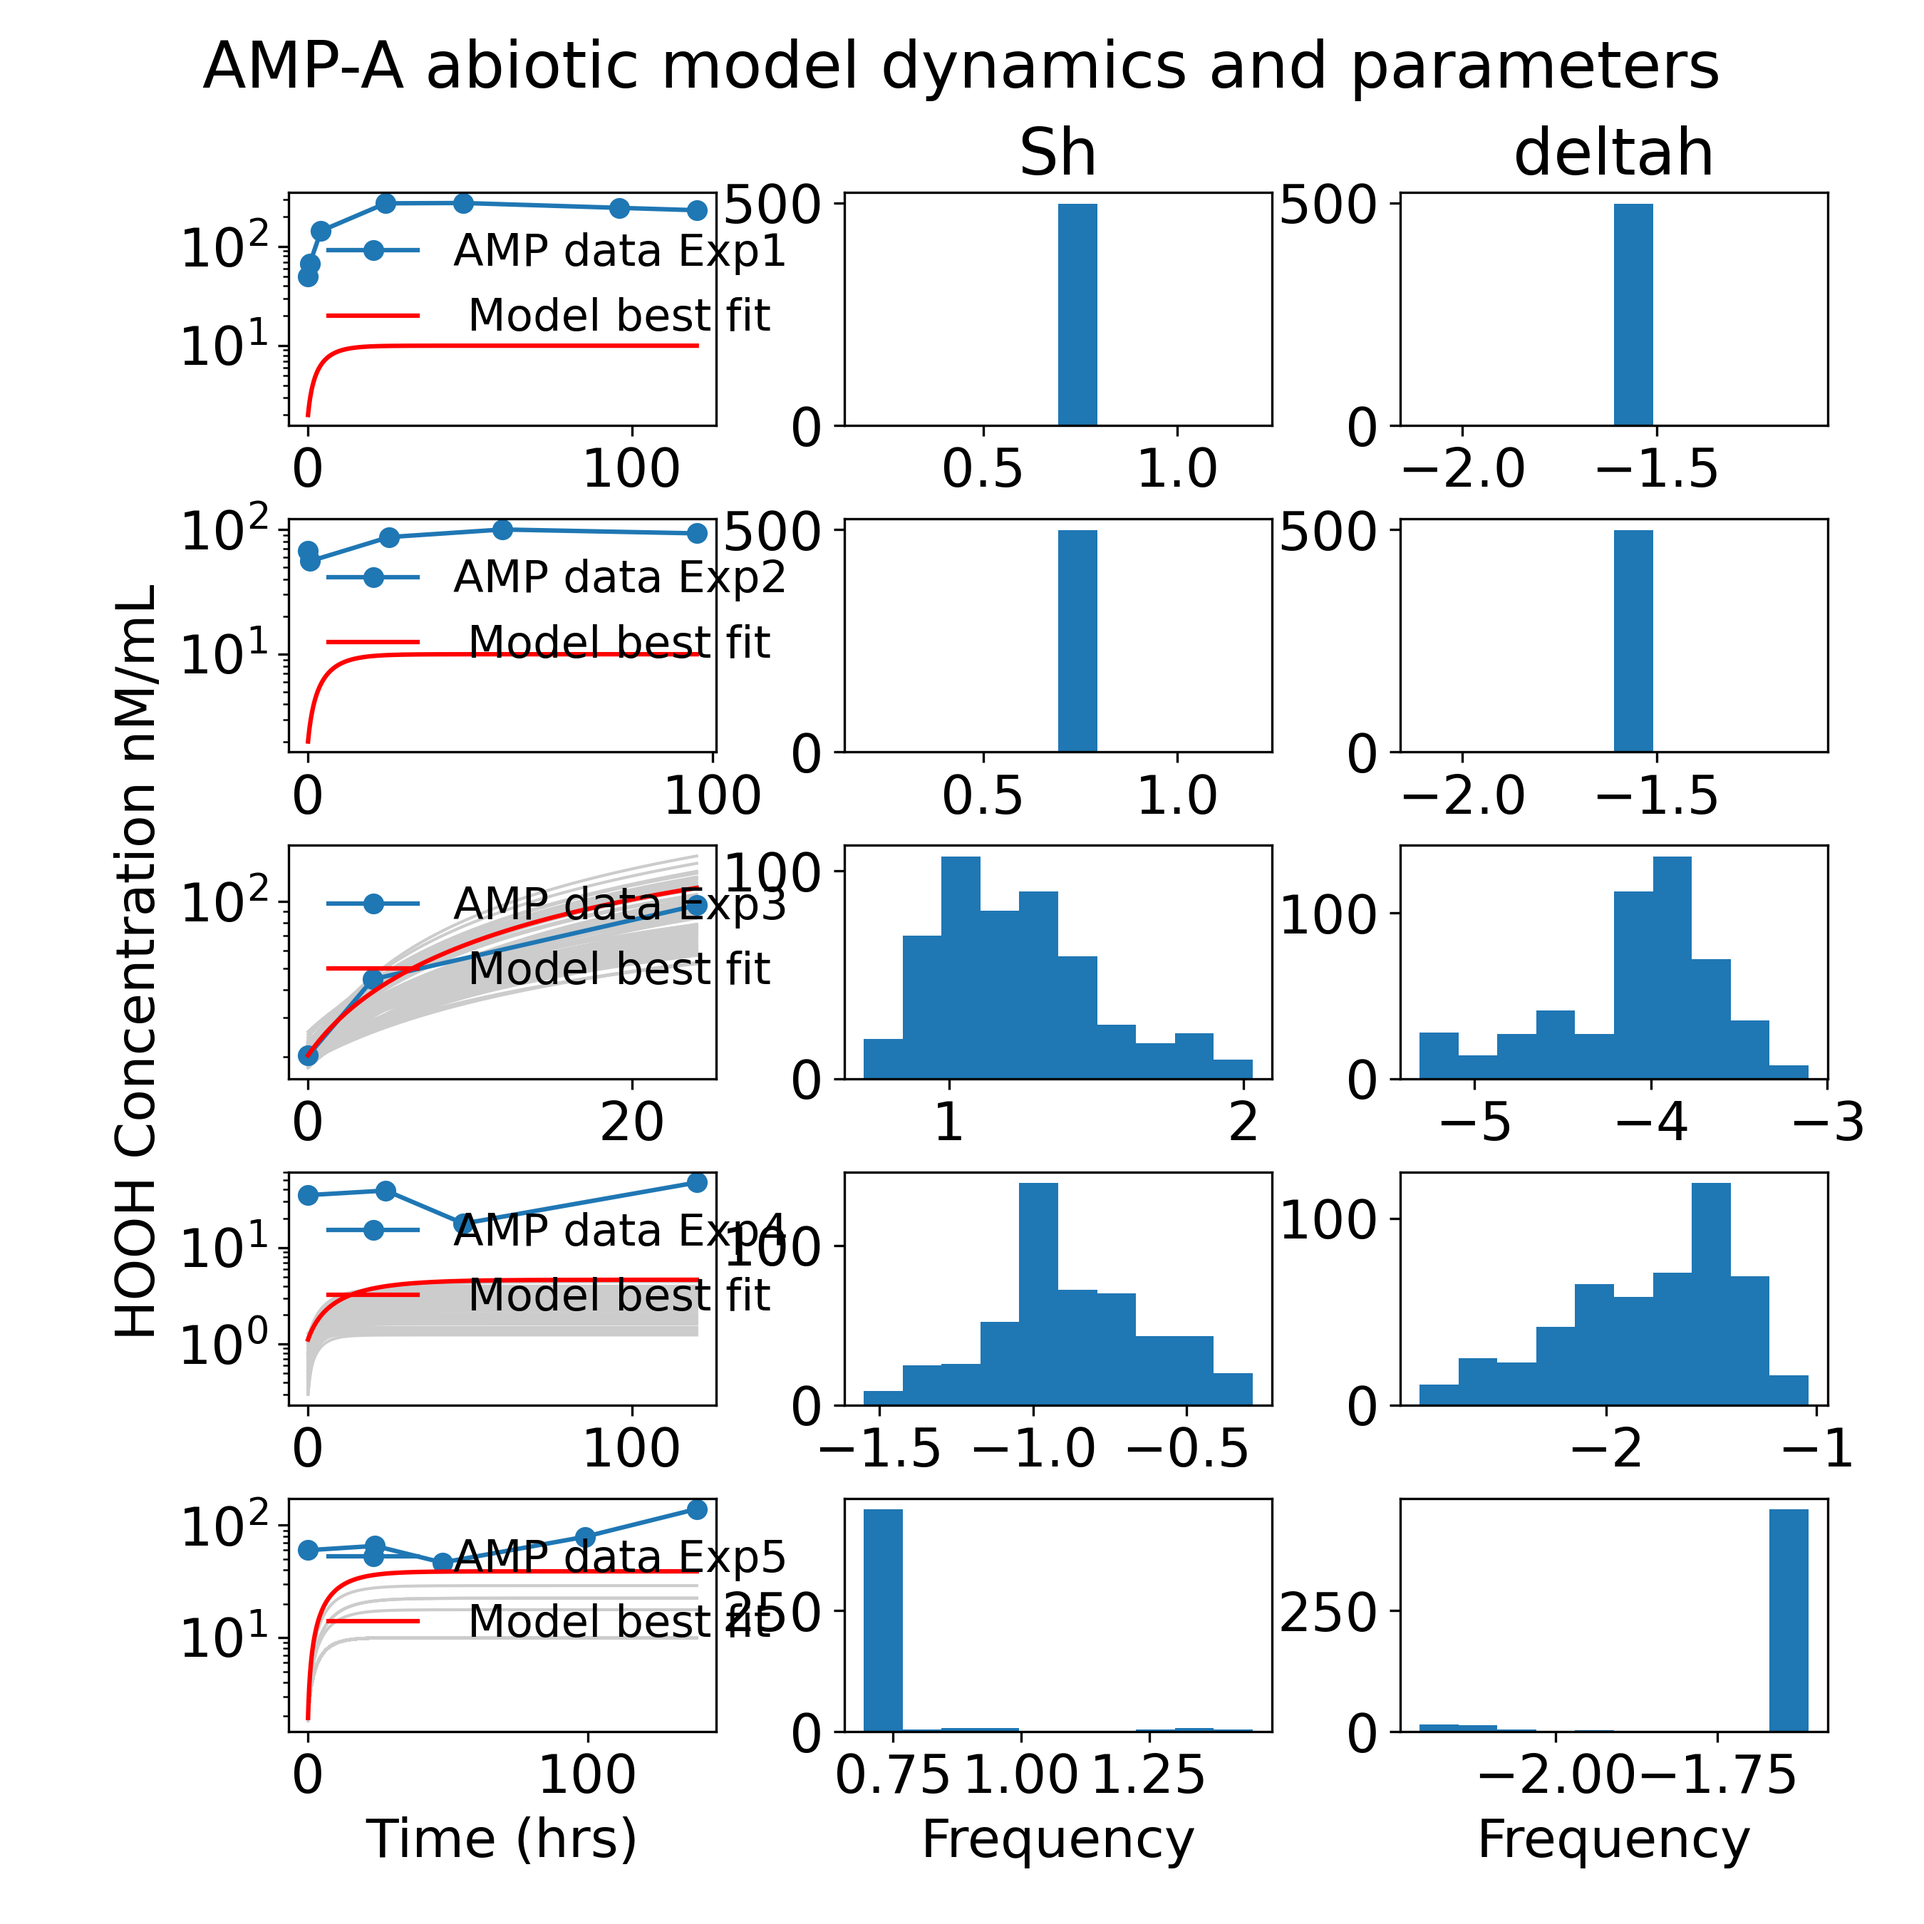
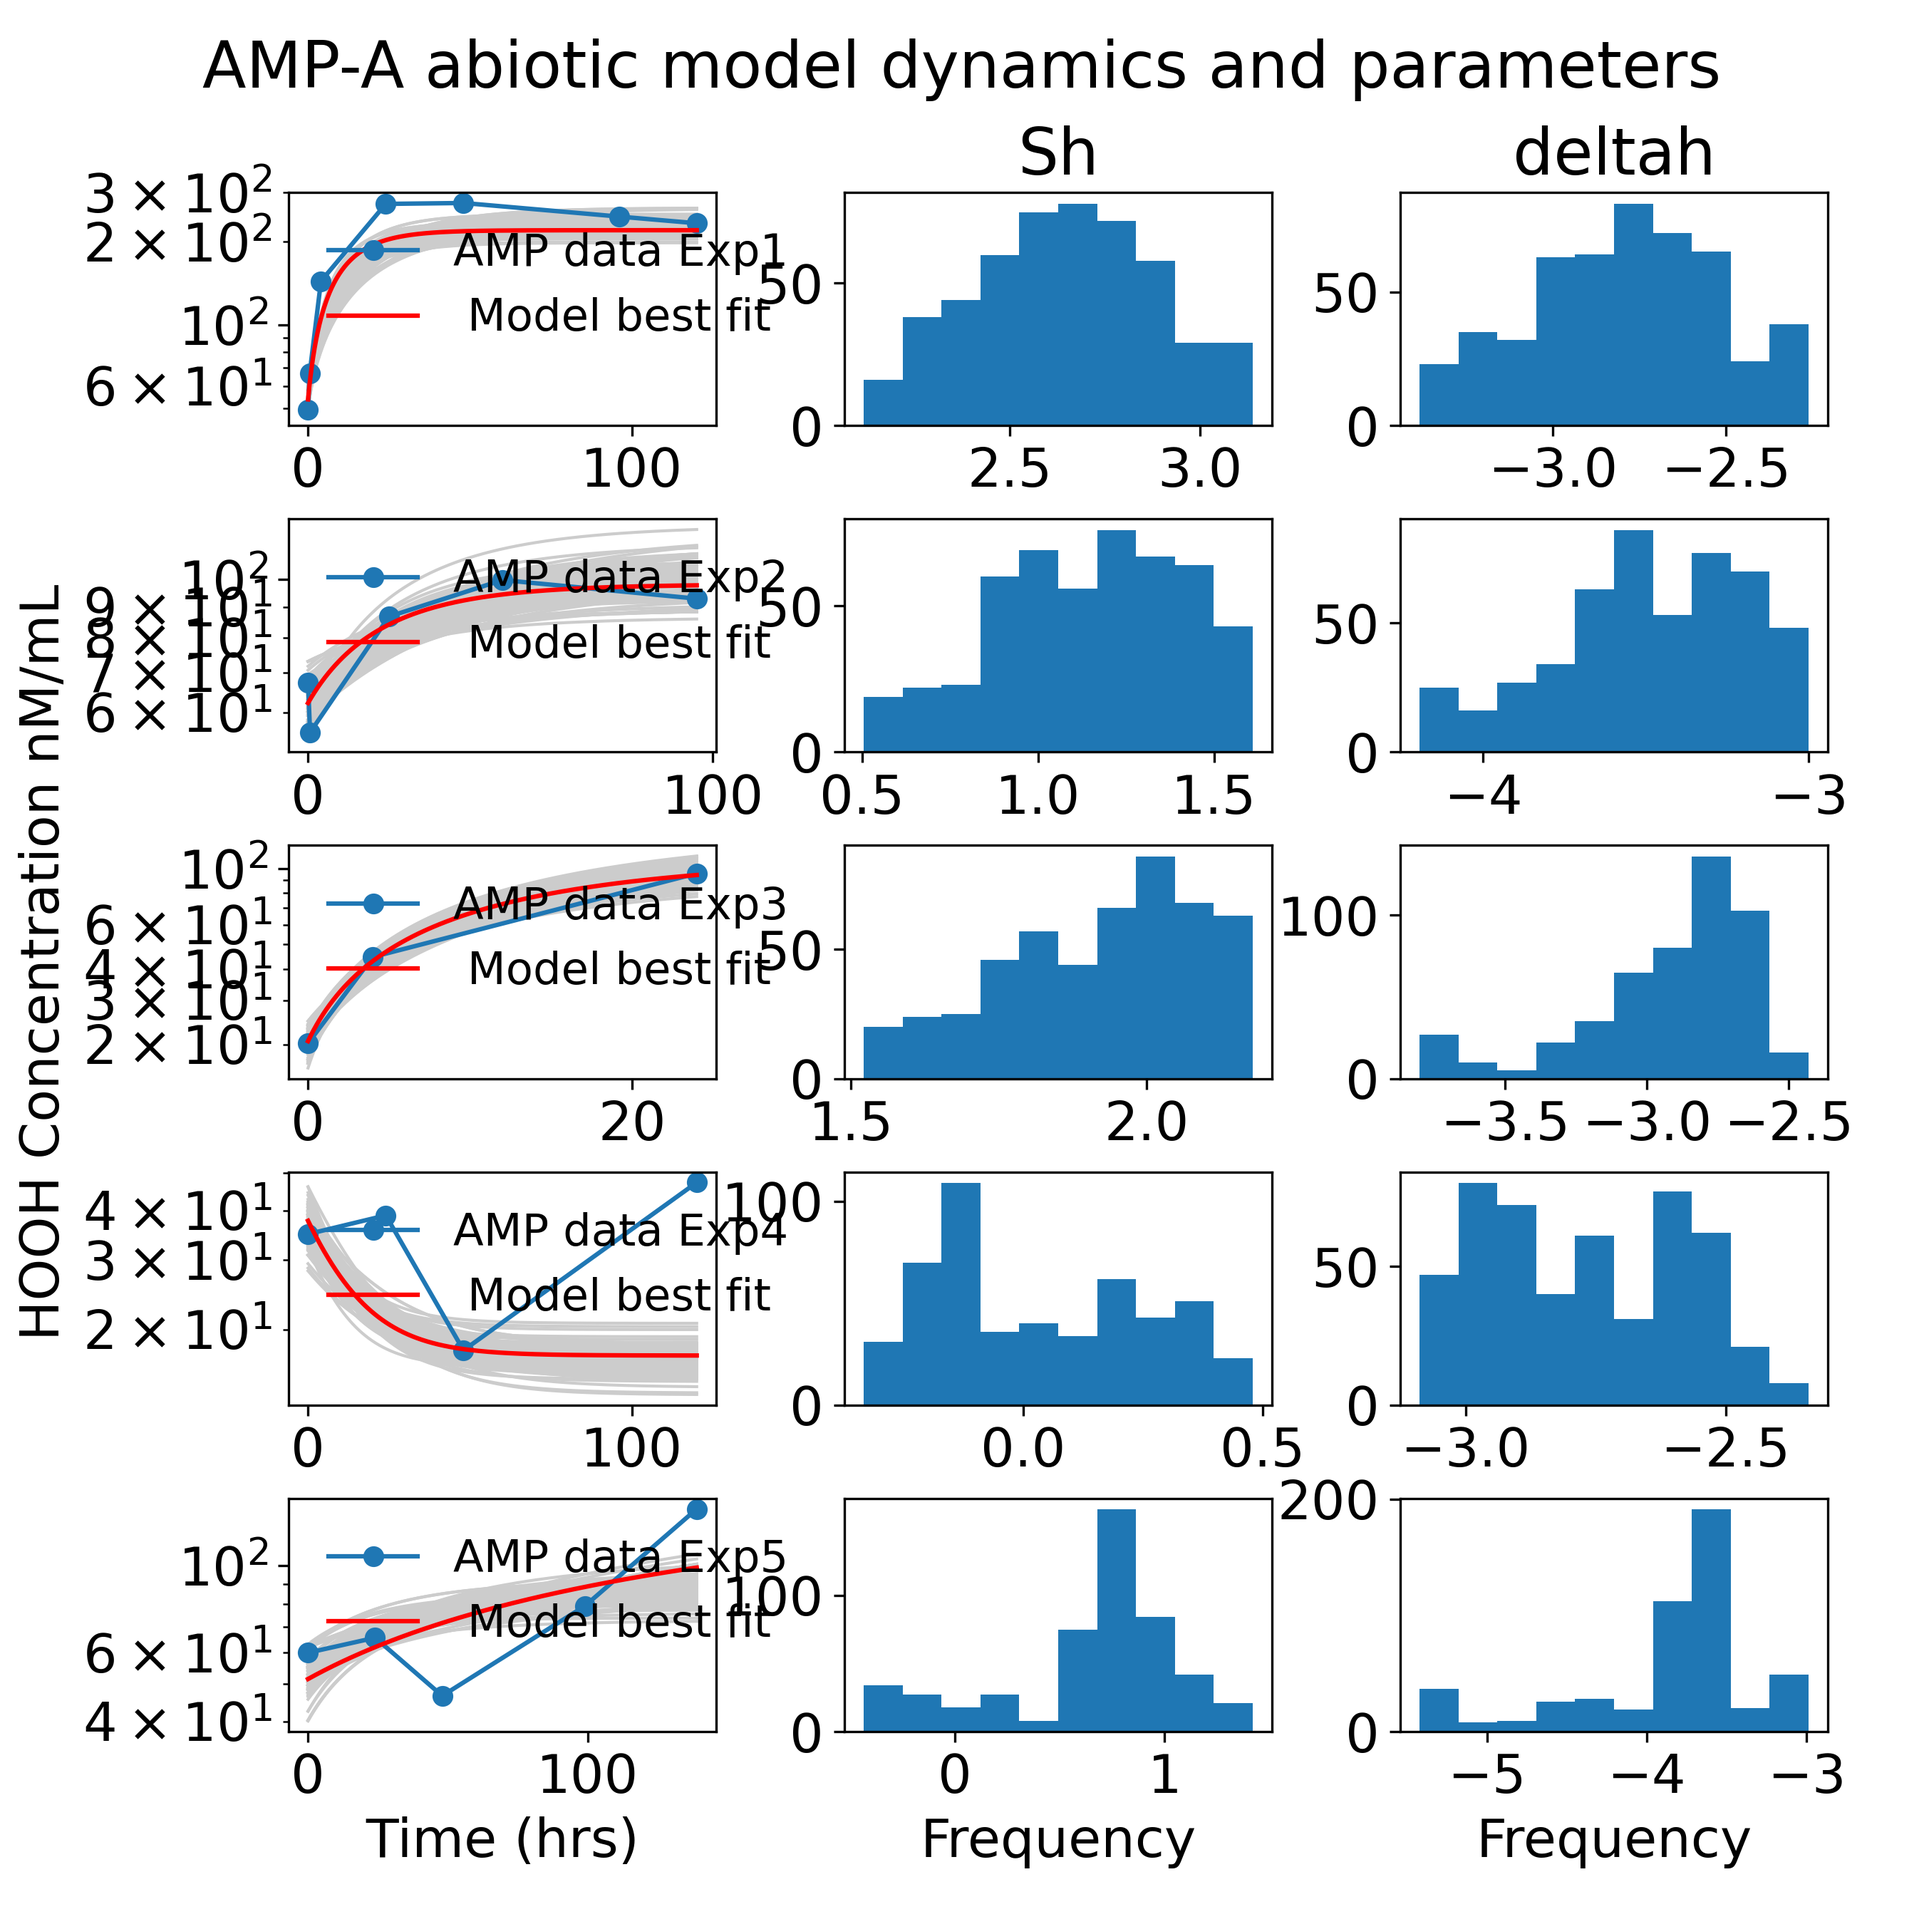
eod

diff --git a/src/model_AMP.py b/src/model_AMP.py
@@ -51,6 +51,7 @@ df_all['log3'] = np.log(df_all['rep3'])
 df_all['abundance'] =  np.nanmean(np.r_[[df_all[i] for i in ['rep1','rep2','rep3']]],axis=0)
 df_all['log_abundance'] = np.nanmean(np.r_[[df_all[i] for i in ['log1','log2','log3']]],axis=0)
 df_all['log_sigma'] = np.std(np.r_[[df_all[i] for i in ['log1','log2','log3']]],axis=0)
+df_all['log_sigma'] = 0.1
 
 exps = df_all['ID'].unique()
 nexps = exps.shape[0]   #making numnber list for exp
